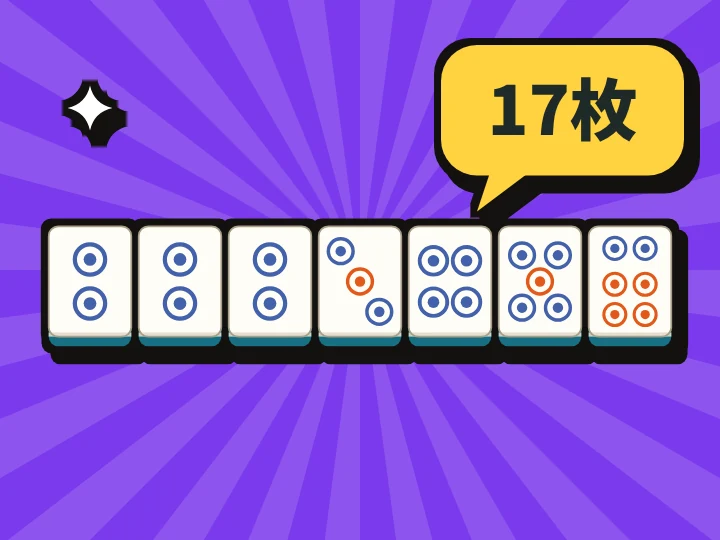
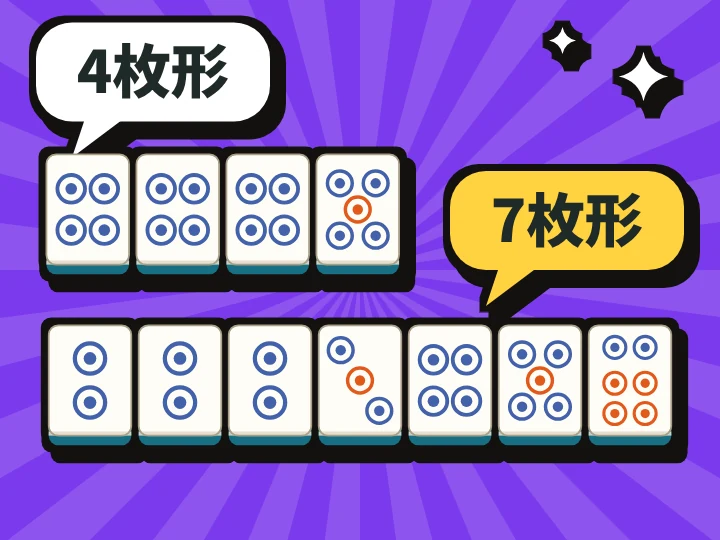
待ちの形一覧の記事のサムネを「4枚形」「7枚形」の吹き出しに
上に4枚形（四四四五筒）、下に7枚形（二二二三四五六筒）を並べ、それぞれに吹き出しを付けた（ユーザーの指定）。

Claude-Session: https://claude.ai/code/session_01MvDkqgDpvtHo5DujLxJeb1

diff --git a/tools/make_thumbs.py b/tools/make_thumbs.py
@@ -205,7 +205,7 @@ THUMBS = [
  T("blog-rule-wakareme", "#7C5CFF", lambda: row_center(["z1", "z1"], 44, 54, 6) + bubble(54, 150, 92, 52, "2符", 30) + bubble(174, 150, 92, 52, "4符", 30) + '<text x="160" y="186" text-anchor="middle" font-size="30" font-weight="900" fill="#fff" ' + F + '>?</text>' + sparkle(262, 48, 13) + sparkle(56, 52, 9)),
  T("blog-local-yaku", "#FF5C8A", lambda: row_center(["p2", "p3", "p4", "p5", "p6"], 70, 46, 3) + sparkle(250, 50, 14) + sparkle(64, 196, 9) + '<text x="160" y="214" text-anchor="middle" font-size="22" font-weight="900" fill="#fff" ' + F + '>ローカル役満</text>'),
  T("blog-mahjong-kanji", "#FFC233", lambda: bubble(40, 46, 104, 96, "混", 64) + bubble(176, 46, 104, 96, "清", 64, "#1F2A28", "#fff") + '<text x="160" y="206" text-anchor="middle" font-size="22" font-weight="900" fill="#1F2A28" ' + F + '>字でつながる</text>'),
- T("blog-machi-katachi", "#7C3AED", lambda: row_center(["p2", "p2", "p2", "p3", "p4", "p5", "p6"], 100, 38, 2) + bubble(196, 20, 108, 58, "17枚", 30, "#FFD23F") + sparkle(40, 48, 10)),
+ T("blog-machi-katachi", "#7C3AED", lambda: bubble(16, 10, 104, 44, "4枚形", 26, "#fff") + tiles(["p4", "p4", "p4", "p5"], 20, 68, 38, 2) + bubble(200, 76, 104, 44, "7枚形", 26, "#FFD23F") + row_center(["p2", "p2", "p2", "p3", "p4", "p5", "p6"], 144, 38, 2) + sparkle(286, 34, 11) + sparkle(250, 18, 6)),  # 4枚形・7枚形の吹き出し（2026-11-16 ユーザーの指定）
 T("blog-machi-dojo", "#22B573", lambda: row_center(["s2", "s3", "s4", "s5"], 92, 46, 3) + bubble(214, 18, 72, 62, "?", 44, "#fff", "#E75620")),
  T("blog-mahjong-yougoshu", "#8A5CF6", lambda: card(74, 36, 172, 168, "#fff", 12) + '<rect x="74" y="36" width="24" height="168" rx="10" fill="#6D3FE0"/>' + "".join(f'<rect x="246" y="{52 + i * 30}" width="22" height="24" rx="5" fill="{c}"/><text x="257" y="{70 + i * 30}" text-anchor="middle" font-size="13" font-weight="900" fill="#fff" {F}>{t}</text>' for i, (t, c) in enumerate([("あ", "#FF5C8A"), ("か", "#FFC233"), ("さ", "#22B573"), ("た", "#2F6BFF"), ("な", "#E75620")])) + lines(114, 70, 7, 112, 18)),
  T("blog-dantai-rekishi", "#29B6F6", lambda: '<line x1="40" y1="120" x2="280" y2="120" stroke="#fff" stroke-width="6" stroke-linecap="round"/>' + "".join(f'<circle cx="{x}" cy="120" r="16" fill="{c}" stroke="#fff" stroke-width="5"/><text x="{x}" y="{88 if i % 2 == 0 else 168}" text-anchor="middle" font-size="15" font-weight="900" fill="#fff" {F}>{y}</text>' for i, (x, c, y) in enumerate([(52, "#4261AA", "1976"), (108, "#177083", "1981"), (164, "#B7791F", "1997"), (220, "#E25A1C", "2001"), (272, "#6B46C1", "2007")]))),
